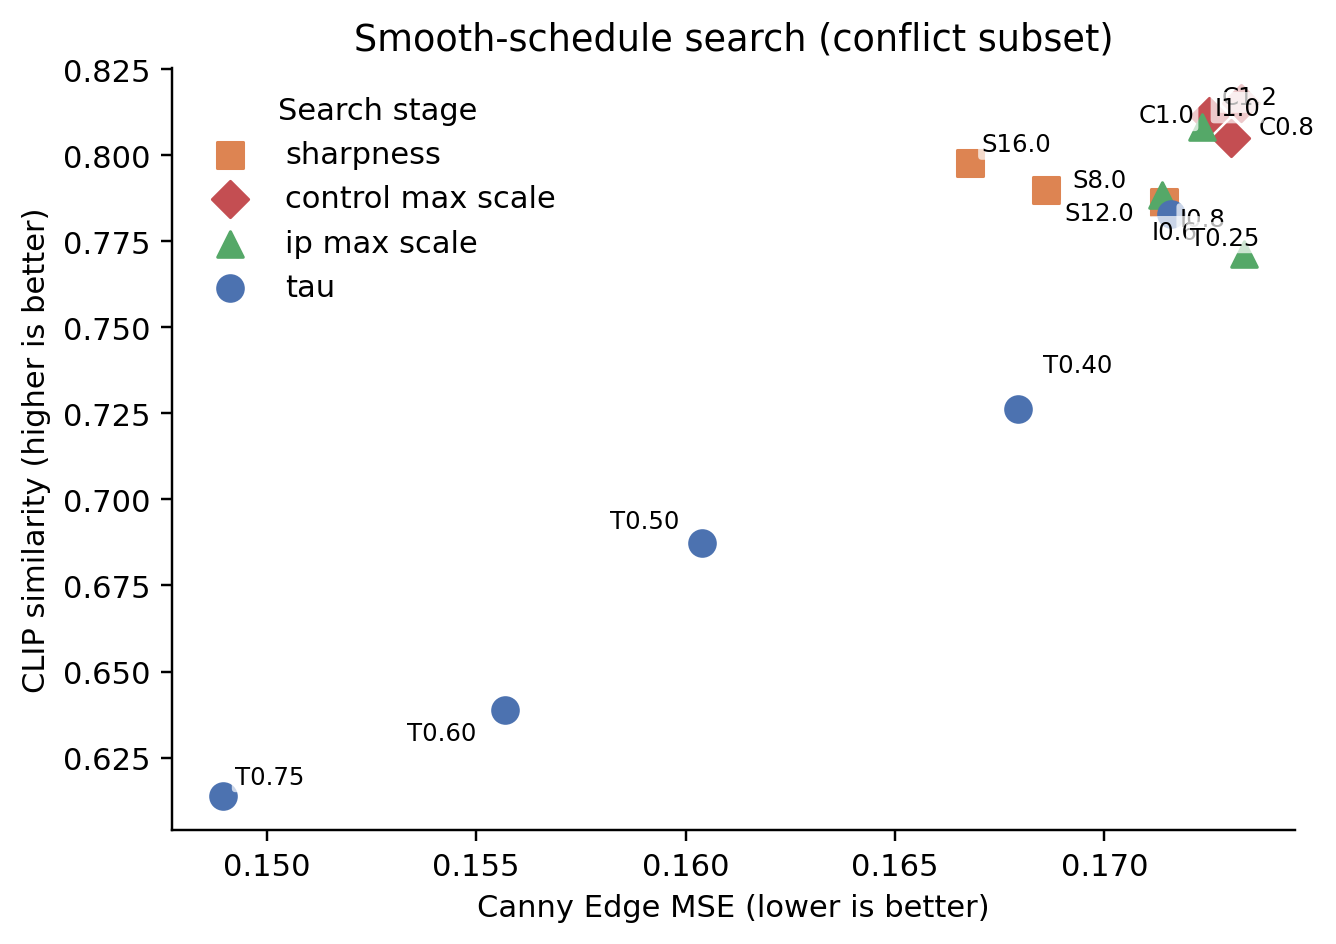
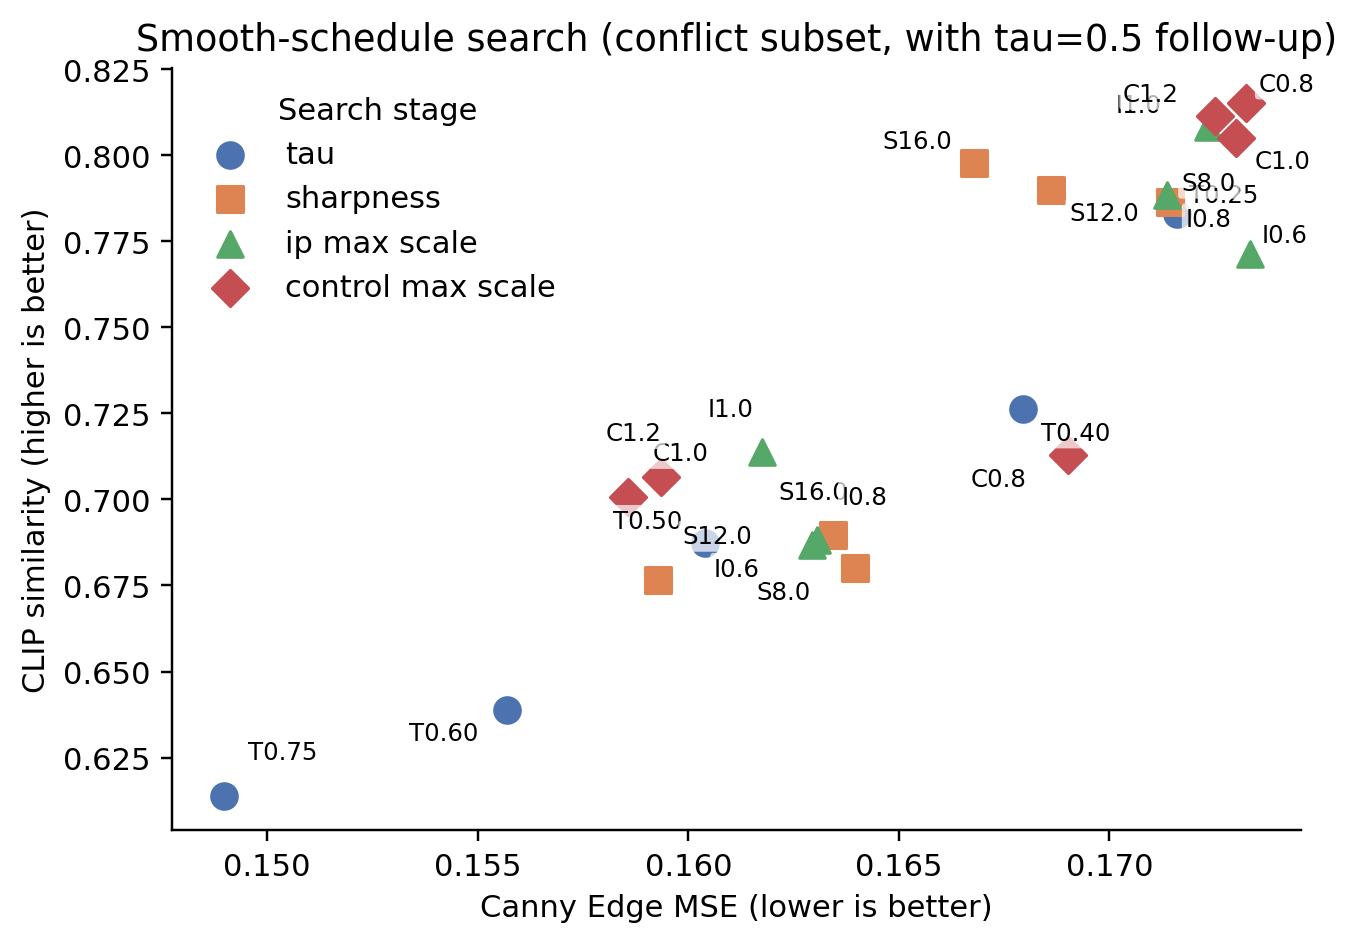
Update README with smooth tau 0.5 summary and figure

diff --git a/README.md b/README.md
@@ -124,7 +124,7 @@ GitHub can render repository images directly inside the README, so the most impo
 </p>
 
 <p align="center">
-  <em>Smooth-schedule search on the conflict subset. The plot shows how changing <code>tau</code>, <code>sharpness</code>, and scale settings moves the method along the same structure-versus-semantics frontier.</em>
+  <em>Smooth-schedule search on the conflict subset. This updated plot combines the original smooth-search grid with the later <code>tau=0.5</code> follow-up search, so the added <code>sharpness</code>, <code>ip_max_scale</code>, and <code>control_max_scale</code> probes at <code>tau=0.5</code> can be read on the same structure-versus-semantics frontier.</em>
 </p>
 
 <p align="center">
@@ -241,6 +241,8 @@ Final full-set comparison on `1000` conflict pairs:
 - `smooth_sharpness__tau_0p25__sharp_16p0`: slightly smoother compromise than hard scheduling at the same `tau`, but not a Pareto improvement over the hard result  
   `Canny MSE mean = 0.1818`, `CLIP similarity mean = 0.7974`
 
+We also include a separate `smooth tau=0.5` search-stage result below. It is useful for comparing operating points, but it is still a `100`-pair subset result rather than a `1000`-pair full-set confirmation.
+
 Pairwise comparison against `naive_combined`:
 
 - `tau_0p25` wins on CLIP similarity for `96.6%` of samples, but wins on Canny MSE for only `8.2%`
@@ -256,9 +258,9 @@ This means the final experiments expose a clear structure / semantics trade-off 
 
 Smooth-schedule note:
 
-- `figures/final_stage/smooth_search_tradeoff.png` is the search-stage plot from the `100`-pair smooth search subset. It already summarizes the progressive sweep over `tau`, `sharpness`, `ip_max_scale`, and `control_max_scale`.
+- `figures/final_stage/smooth_search_tradeoff.png` is still a search-stage plot on `100` conflict pairs, but it now combines the original smooth search and the later `tau=0.5` follow-up search into one view.
 - `figures/final_stage/smooth_sharpness_metrics.png` is the dedicated sharpness ablation plot from that same smooth search.
-- The later `tau_0p5` run was a full-set hard-switch confirmation only, so it does not regenerate a new smooth-search figure by itself.
+- The later `tau_0p5` hard run was a full-set confirmation; the `smooth tau=0.5` results shown below remain search-stage unless we explicitly run a matching `1000`-pair smooth confirmation.
 
 Additional `smooth tau=0.5` search result on `100` conflict pairs:
 
